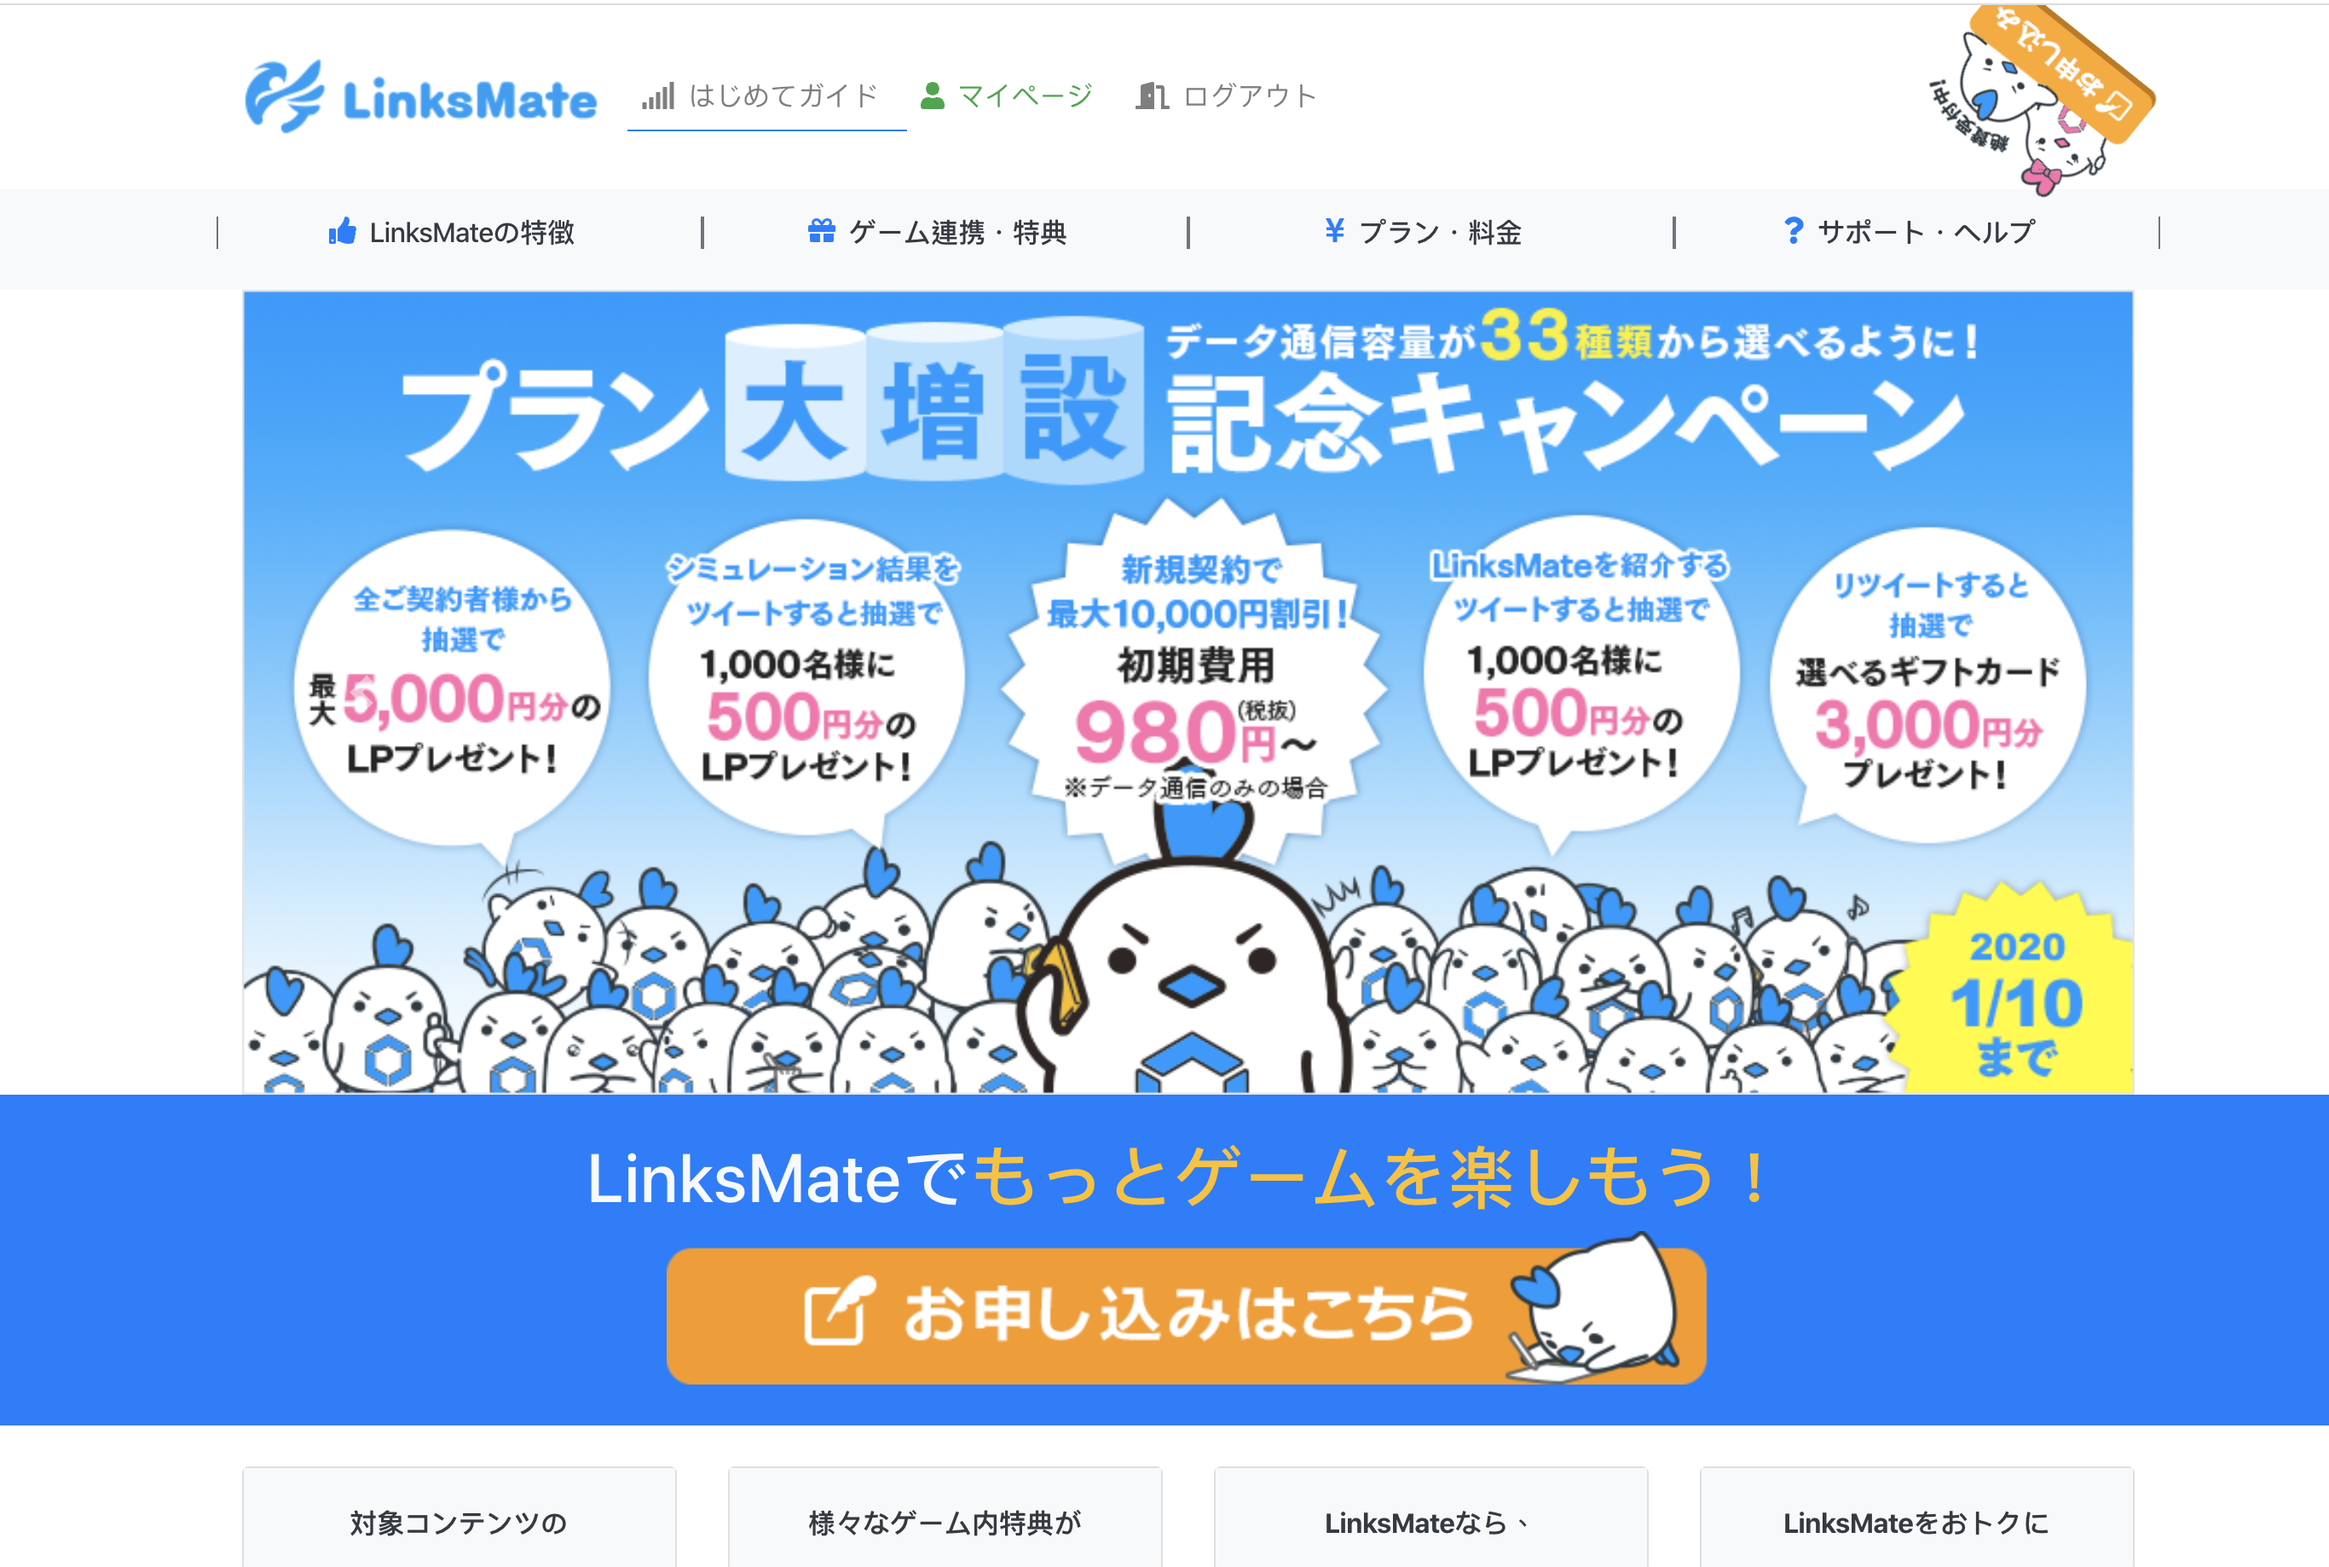
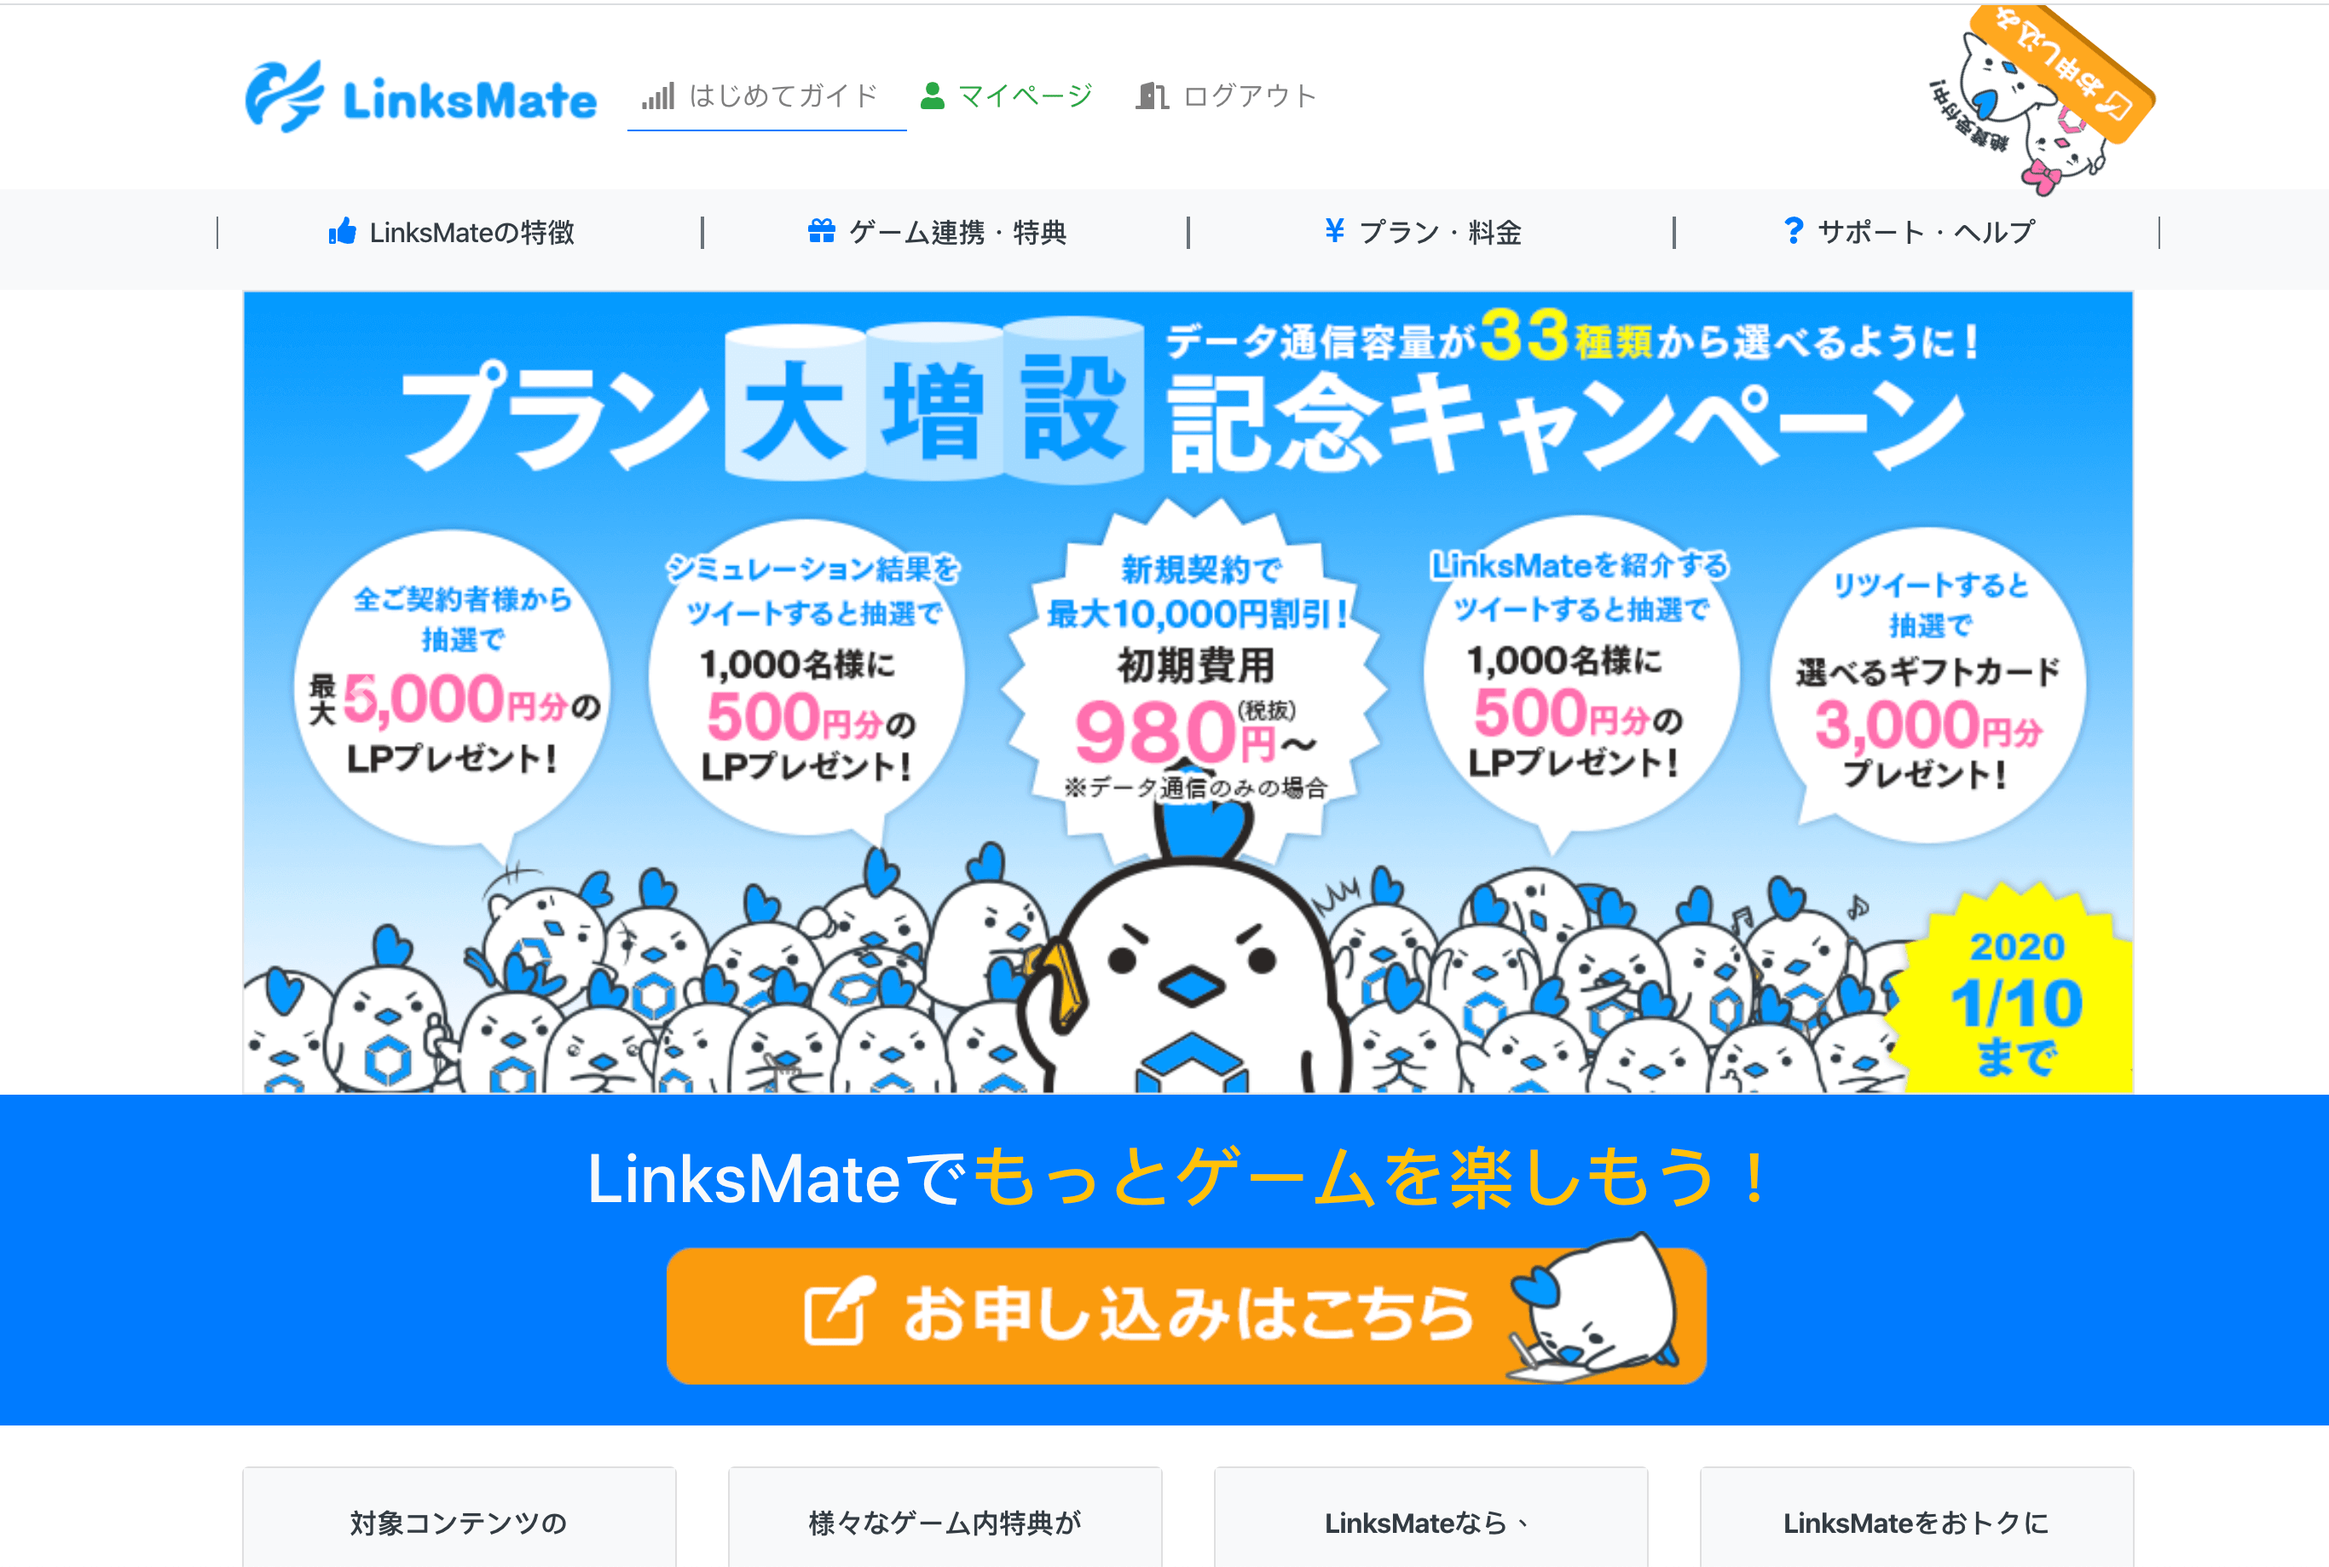
feat: resize image assets

diff --git a/src/data/data.ts b/src/data/data.ts
@@ -10,11 +10,11 @@ import work34 from '../assets/work3_4.png'
 import work35 from '../assets/work3_5.png'
 import work36 from '../assets/work3_6.png'
 import work41 from '../assets/work4-1.png'
-import work42 from '../assets/work4-2.png'
-import work43 from '../assets/work4-3.png'
+import work42 from '../assets/work4-2.jpg'
+import work43 from '../assets/work4-3.jpg'
 import side1 from '../assets/side1.png'
 import side2 from '../assets/side2.png'
-import side31 from '../assets/side3_1.png'
+import side31 from '../assets/side3_1.jpg'
 import side32 from '../assets/side3_2.png'
 import side4 from '../assets/side4.png'
 

diff --git a/src/images.d.ts b/src/images.d.ts
@@ -1,2 +1,3 @@
 declare module '*.jpg'
 declare module '*.png'
+declare module '*.webp'
